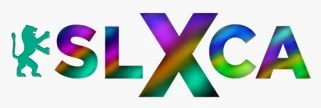
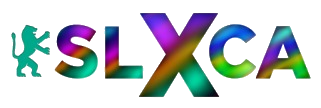
Refine SLxCA branding and contextual host controls

diff --git a/public/host.css b/public/host.css
@@ -20,7 +20,7 @@
 .landing{min-height:100vh;background:var(--stage)}.landing-main{max-width:1320px;padding:64px 56px 60px;margin:auto;display:grid;grid-template-columns:1.05fr .95fr;gap:7vw;align-items:center;min-height:calc(100vh - 74px)}.intro h1{font-family:var(--font-display);font-size:clamp(64px,7vw,112px);font-weight:900;line-height:.94;letter-spacing:-.065em;margin:28px 0}.intro h1 span{display:block;color:var(--board-gold)}.intro p{font-size:20px;line-height:1.5;max-width:520px;color:#bfc4d2}.intro .event{font-size:13px;letter-spacing:.17em;text-transform:uppercase;color:var(--board-gold);font-weight:800}
 .entry{border-top:5px solid var(--accent);background:#151b30;padding:36px 40px 38px;box-shadow:0 18px 60px #0003}.entry h2{font-size:31px;margin:0 0 7px}.entry p{color:#bfc4d2;margin:0 0 30px;line-height:1.45}.entry label{display:block;font-size:12px;text-transform:uppercase;letter-spacing:.12em;font-weight:800;margin:18px 0 8px;color:#bfc4d2}.entry input{height:56px;padding:0 18px;width:100%;border:2px solid #6e7791;background:#fff;color:var(--ink);border-radius:4px;font-size:19px}.entry input::placeholder{color:#717a8b}.primary{background:var(--board-gold);color:#141622;border:0;border-radius:4px;padding:17px 22px;font-weight:900;font-size:18px;min-height:56px}.entry .primary{width:100%;margin-top:28px}.create-line{border-top:1px solid #525a73;margin-top:32px;padding-top:23px;display:flex;align-items:center;justify-content:space-between;gap:12px}.create-line span{font-size:15px;color:#c8cbda}.outline{border:1px solid #c2cad9;background:transparent;color:#fff;border-radius:4px;padding:13px 18px;font-weight:800;white-space:nowrap}.outline:hover{background:#25314e}
 /* Projector: board is dominant; controls are a restrained separate strip. */
-.host{height:100vh;min-height:700px;overflow:hidden;display:flex;flex-direction:column;background:#0c1020}.host-header{height:64px;flex:none;display:flex;align-items:center;justify-content:space-between;padding:0 26px;border-bottom:1px solid #39425e}.host-header .title{font-family:var(--font-display);font-weight:900;letter-spacing:.04em;font-size:26px}.host-header .title b{color:var(--board-gold)}.room-code{font-size:14px;font-weight:800;letter-spacing:.08em}.host-content{display:flex;flex:1;min-height:0;gap:22px;padding:20px 22px}.board-area{display:flex;flex-direction:column;min-width:0;flex:1}.board{display:grid;grid-template-columns:repeat(4,minmax(0,1fr));grid-template-rows:repeat(6,minmax(0,1fr));gap:6px;background:var(--board-edge);border:7px solid var(--board-edge);box-shadow:0 0 0 1px #57658e,0 22px 70px #0008;flex:1;min-height:0}.tile{display:flex;align-items:center;justify-content:center;text-align:center;background:var(--board);text-shadow:2px 3px 2px #0008;border:1px solid #2656d2;padding:9px}.tile.category{font-size:clamp(12px,1.55vw,23px);font-weight:900;line-height:1.12;text-transform:uppercase;color:var(--white)}.tile.value{font-family:var(--font-display);font-weight:900;font-size:var(--text-money);color:var(--board-gold)}.tile.value:hover{background:var(--board-lit)}.tile.empty{color:#8b9bcd;background:#09216c}.host-foot{height:64px;flex:none;display:flex;gap:12px;align-items:center;justify-content:space-between;color:#a9b2cb;font-size:14px}.host-foot strong{color:#fff}.host-foot button{background:#222c45;border:1px solid #737f9d;color:#fff;border-radius:4px;padding:9px 15px}.host-side{width:262px;display:flex;flex-direction:column;gap:16px}.side-section{border-top:3px solid #6a769c;padding-top:12px}.side-section h2{font-size:12px;text-transform:uppercase;letter-spacing:.15em;color:#b8c0d6;margin:0 0 12px}.score{display:flex;align-items:center;justify-content:space-between;gap:8px;padding:11px 0;border-bottom:1px solid #303954;font-size:15px}.score strong{font-family:var(--font-display);font-size:21px;color:var(--board-gold)}.score.lead span:before{content:'●';font-size:9px;color:var(--accent);padding-right:8px}.status{background:#1b2440;border-left:4px solid var(--accent);padding:14px 16px}.status .hint{font-size:12px;color:#bfc6d9;line-height:1.4}.status strong{display:block;font-size:20px;margin:5px 0}.status .clock{font-size:32px;color:var(--board-gold);font-family:var(--font-display);font-weight:900}.host-side .side-section:last-child{margin-top:auto}.host-side button{border:1px solid #76829e;color:#fff;background:#222b44;padding:10px 12px;border-radius:4px;font-size:13px;font-weight:700;text-align:left;width:100%}
+.host{height:100vh;min-height:700px;overflow:hidden;display:flex;flex-direction:column;background:#0c1020}.host-header{height:64px;flex:none;display:flex;align-items:center;justify-content:space-between;padding:0 26px;border-bottom:1px solid #39425e}.host-header .title{font-family:var(--font-display);font-weight:900;letter-spacing:.04em;font-size:26px}.host-header .title b{color:var(--board-gold)}.room-code{font-size:14px;font-weight:800;letter-spacing:.08em}.host-content{display:flex;flex:1;min-height:0;gap:22px;padding:20px 22px}.board-area{display:flex;flex-direction:column;min-width:0;flex:1}.board{display:grid;grid-template-columns:repeat(4,minmax(0,1fr));grid-template-rows:repeat(6,minmax(0,1fr));gap:6px;background:var(--board-edge);border:7px solid var(--board-edge);box-shadow:0 0 0 1px #57658e,0 22px 70px #0008;flex:1;min-height:0}.tile{display:flex;align-items:center;justify-content:center;text-align:center;background:var(--board);text-shadow:2px 3px 2px #0008;border:1px solid #2656d2;padding:9px}.tile.category{font-size:clamp(12px,1.55vw,23px);font-weight:900;line-height:1.12;text-transform:uppercase;color:var(--white)}.tile.value{font-family:var(--font-display);font-weight:900;font-size:var(--text-money);color:var(--board-gold)}.tile.value:hover{background:var(--board-lit)}.tile.empty{color:#8b9bcd;background:#09216c}.host-foot{height:64px;flex:none;display:flex;gap:12px;align-items:center;justify-content:space-between;color:#a9b2cb;font-size:14px}.host-foot strong{color:#fff}.host-foot button{background:#222c45;border:1px solid #737f9d;color:#fff;border-radius:4px;padding:9px 15px}.host-side{width:262px;display:flex;flex-direction:column;gap:16px}.side-section{border-top:3px solid #6a769c;padding-top:12px}.side-section h2{font-size:12px;text-transform:uppercase;letter-spacing:.15em;color:#b8c0d6;margin:0 0 12px}.score{display:flex;align-items:center;justify-content:space-between;gap:8px;padding:11px 0;border-bottom:1px solid #303954;font-size:15px}.score strong{font-family:var(--font-display);font-size:21px;color:var(--board-gold)}.status{background:#1b2440;border-left:4px solid var(--accent);padding:14px 16px}.status .hint{font-size:12px;color:#bfc6d9;line-height:1.4}.status strong{display:block;font-size:20px;margin:5px 0}.status .clock{font-size:32px;color:var(--board-gold);font-family:var(--font-display);font-weight:900}.host-side .side-section:last-child{margin-top:auto}.host-side button{border:1px solid #76829e;color:#fff;background:#222b44;padding:10px 12px;border-radius:4px;font-size:13px;font-weight:700;text-align:left;width:100%}
 /* Question overlay overlays the board, not the host controls. */
 .board-wrap{position:relative;flex:1;min-height:0;display:flex}.board-wrap .board{width:100%}.reveal{position:absolute;inset:0;border:7px solid var(--board-edge);background:var(--board);display:flex;flex-direction:column;justify-content:center;align-items:center;text-align:center;padding:4% 7%}.reveal .kicker{font-size:clamp(15px,1.4vw,22px);font-weight:800;letter-spacing:.09em;text-transform:uppercase;color:var(--board-gold)}.reveal .clue{font-family:var(--font-display);font-weight:900;line-height:1.17;text-transform:uppercase;font-size:clamp(32px,3.4vw,57px);max-width:960px;text-shadow:3px 4px 2px #0008;margin:45px 0}.reveal .buzzed{background:#f8f7f2;color:#151b30;font-weight:900;padding:15px 30px;font-size:19px}.reveal .buzzed b{color:#9e2439}.reveal .clock{position:absolute;bottom:24px;right:28px;font-family:var(--font-display);font-size:42px;color:var(--board-gold)}
 /* Player: single task in reach of a thumb. */
@@ -67,7 +67,7 @@
 .pill.down .live-dot{background:var(--danger)}
 .pill.down{color:#c9a3a0}
 .score>span:first-child{flex:1;min-width:0;overflow:hidden;text-overflow:ellipsis;white-space:nowrap}
-.score.lead .adj:before{content:none;padding:0}
+
 
 /* SLxCA game-shell refresh. Jeopardy board tiles and clue geometry remain intact. */
 :root{--accent:#f5427b;--board-gold:#ffffff;--board:#112fa4;--board-lit:#2146c6;--board-edge:#140f48;--focus:0 0 0 3px #fff,0 0 0 6px #f5427b}
@@ -78,19 +78,19 @@
 .join-label{font-size:13px;font-weight:800;letter-spacing:.01em}.join-code{font-size:34px;font-weight:1000;line-height:1;letter-spacing:.11em;color:#4214a3;font-variant-numeric:tabular-nums}
 .host-header .pill{border:0;background:#fff2;color:#fff;font-weight:900;border-radius:12px;padding:13px 15px;white-space:nowrap}.host-header .live-dot{width:10px;height:10px}
 .host-content{gap:16px;padding:22px}.board{border-radius:9px;overflow:hidden;border-width:7px;box-shadow:0 8px 0 #160b4e,0 18px 36px #1b0a5299}.tile.category{background:#233db2}.tile.value:hover{background:#3159d2}.reveal{border-radius:9px}
-.host-side{width:276px;gap:12px}.side-section{border:0;background:#fff;border-radius:13px;padding:15px;color:#24133e;box-shadow:0 5px 0 #190a54}.side-section h2{color:#5f2bb2;font-size:12px;font-weight:1000;margin-bottom:8px}.score{font-size:15px;border-color:#e2dbed}.score strong{color:#5321b5}.score.lead span:before{color:#ed3374}.score.disconnected span{color:#88808e}.score .adj button{background:#ece4fb;border:0;color:#482191;border-radius:7px;font-size:12px;min-width:38px;padding:5px 6px}.score .adj button:hover{background:#d8c8f7}
+.host-side{width:276px;gap:12px}.side-section{border:0;background:#fff;border-radius:13px;padding:15px;color:#24133e;box-shadow:0 5px 0 #190a54}.side-section h2{color:#5f2bb2;font-size:12px;font-weight:1000;margin-bottom:8px}.score{font-size:15px;border-color:#e2dbed}.score strong{color:#5321b5}.score.disconnected span{color:#88808e}.score .adj button{background:#ece4fb;border:0;color:#482191;border-radius:7px;font-size:12px;min-width:38px;padding:5px 6px}.score .adj button:hover{background:#d8c8f7}
 .host-side .status{background:#eee5fe;color:#2b1551;border-left:5px solid #ef397a;border-radius:8px}.status .hint,.queue{color:#5b506d}.status strong{font-size:22px}.status .clock{color:#5721ad}.queue b{color:#24133e}.host-side .side-section:last-child{margin-top:auto}.host-side button{background:#5720bc;border:0;color:#fff;border-radius:9px;padding:12px;font-size:14px;font-weight:900;text-align:center;margin-top:6px;box-shadow:0 3px 0 #2c0c76}.host-side button:not(:disabled):hover{background:#7438d1}.host-side button:disabled{background:#ddd6e8;color:#625b6d;opacity:1;box-shadow:none}.host-foot{color:#eee3ff}.host-foot strong{color:#fff}.notice:empty::before{color:#eee3ff}
 @media(max-width:900px){.host-header{height:92px;padding:10px}.host-header .title{font-size:19px}.room-code{min-width:220px;padding:6px 12px}.join-code{font-size:26px}.join-label{font-size:11px}.host-side{width:210px}.host-content{gap:10px;padding:12px}.side-section{padding:10px}.score{flex-wrap:wrap}.score .adj{order:3;width:100%}}
 
 /* Keep names legible alongside four adjustment controls, even with long team names. */
-.host-side{width:310px;overflow-y:auto;scrollbar-width:thin}.score{display:grid;grid-template-columns:minmax(0,1fr) auto;gap:7px;padding:10px 0}.score>span:first-child{white-space:normal;overflow-wrap:anywhere;overflow:visible;font-weight:800;min-width:0}.score .adj{display:grid;grid-template-columns:repeat(4,minmax(0,1fr));gap:4px;grid-column:1/-1;grid-row:2}.score .adj button{padding:4px 2px;min-width:0;box-shadow:none}.score strong{grid-column:2;grid-row:1;text-align:right}.score.lead .adj:before{content:none}
+.host-side{width:310px;overflow-y:auto;scrollbar-width:thin}.score{display:grid;grid-template-columns:minmax(0,1fr) auto;gap:7px;padding:10px 0}.score>span:first-child{white-space:normal;overflow-wrap:anywhere;overflow:visible;font-weight:800;min-width:0}.score .adj{display:grid;grid-template-columns:repeat(4,minmax(0,1fr));gap:4px;grid-column:1/-1;grid-row:2}.score .adj button{padding:4px 2px;min-width:0;box-shadow:none}.score strong{grid-column:2;grid-row:1;text-align:right}
 @media(max-width:900px){.host-side{width:245px}.score .adj{width:auto}}
 
 .complete-board{background:linear-gradient(135deg,#251178,#5414bf);overflow-y:auto;align-items:flex-start!important}.final-standings{width:min(680px,92%);margin:auto;padding:20px;color:#fff}.final-standings h1{text-align:center;font:900 clamp(32px,4vw,58px) Arial,sans-serif;margin:0 0 24px}.final-team{display:flex;justify-content:space-between;align-items:center;gap:15px;padding:14px 22px;margin:8px 0;border-radius:12px;background:#fff;color:#31116c;font-size:clamp(17px,2vw,25px);font-weight:900;text-shadow:none}.final-team:first-of-type{background:#ffffff}.final-team strong{white-space:nowrap}.score .readmit{grid-column:1/-1;grid-row:3;background:#f4b128;color:#1c1430;box-shadow:none;padding:5px 8px;font-size:12px;text-align:center}
 
 /* Recolor shell only; board remains Jeopardy blue with gold values. */
 :root{--accent:#2f62a5;--board-gold:#ffffff;--focus:0 0 0 3px #fff,0 0 0 6px #2f62a5}
-.host{background:linear-gradient(145deg,#356ba9,#194b87)}.host-header{background:#153e74;box-shadow:0 5px 0 #0d305d}.host-header .title b{color:#ffffff}.room-code{color:#193b67;box-shadow:0 5px 0 #0c305d}.join-code{color:#1b528e}.board{box-shadow:0 8px 0 #0b2e5f,0 18px 36px #0a2c5d99}.side-section{color:#19365f;box-shadow:0 5px 0 #0e335f}.side-section h2{color:#255b9c}.score strong{color:#225da2}.score.lead span:before{color:#2f62a5}.score .adj button{background:#e8f1fa;color:#24558d}.score .adj button:hover{background:#cfe1f4}.host-side .status{background:#e9f2fb;color:#193b67;border-left-color:#2f62a5}.status .clock{color:#225da2}.queue b{color:#19365f}.host-side button{background:#2f62a5;box-shadow:0 3px 0 #17416e}.host-side button:not(:disabled):hover{background:#3b74ba}.host-side button:disabled{background:#d7e0ec;color:#53667d}.host-foot{color:#e3eefb}.notice:empty::before{color:#e3eefb}
+.host{background:linear-gradient(145deg,#356ba9,#194b87)}.host-header{background:#153e74;box-shadow:0 5px 0 #0d305d}.host-header .title b{color:#ffffff}.room-code{color:#193b67;box-shadow:0 5px 0 #0c305d}.join-code{color:#1b528e}.board{box-shadow:0 8px 0 #0b2e5f,0 18px 36px #0a2c5d99}.side-section{color:#19365f;box-shadow:0 5px 0 #0e335f}.side-section h2{color:#255b9c}.score strong{color:#225da2}.score .adj button{background:#e8f1fa;color:#24558d}.score .adj button:hover{background:#cfe1f4}.host-side .status{background:#e9f2fb;color:#193b67;border-left-color:#2f62a5}.status .clock{color:#225da2}.queue b{color:#19365f}.host-side button{background:#2f62a5;box-shadow:0 3px 0 #17416e}.host-side button:not(:disabled):hover{background:#3b74ba}.host-side button:disabled{background:#d7e0ec;color:#53667d}.host-foot{color:#e3eefb}.notice:empty::before{color:#e3eefb}
 .complete-board{background:linear-gradient(135deg,#184d8a,#326fb6)}.final-team{color:#18477c}.final-team:first-of-type{background:#ffffff}.score .readmit{background:#ffffff;color:#19365f}
 
 /* Narrow host screens: board stays first; controls stack beneath it. */
@@ -126,3 +126,79 @@
 .host.slxca-theme .host-brand .host-wordmark,.host.slxca-theme .host-brand>span{display:block}
 .host.slxca-theme .host-partners{display:flex}
 @media(max-width:720px){.host-brand .sighton-logo{width:40px;height:40px}.host-brand strong{font-size:18px}}
+
+.score .leader-medal{display:inline-block;font-size:16px;line-height:1;margin-right:8px;vertical-align:-1px;text-decoration:none}
+/* Event identity in header; participating schools in the board's bottom-left footer. */
+.host .network-mark,.host .host-schools{display:none}
+.host.slxca-theme .network-mark{display:block;width:130px;height:47px;object-fit:contain;content:url('/brand/schulich-network-light.webp');margin-right:auto}
+.host-foot-left{display:flex;align-items:center;gap:18px;min-width:0}
+.host.slxca-theme .host-schools{display:flex;align-items:center;gap:16px;min-width:0}
+.host-schools img{display:block;width:62px;height:34px;object-fit:contain;object-position:center}
+.host-schools img:first-child{width:38px}
+.host-schools img:nth-child(2){width:52px}
+.host.slxca-theme .host-wordmark{background:none;border-radius:0;padding:0}
+.score .leader-medal{display:inline-block;width:19px;height:22px;object-fit:contain;margin-right:8px;vertical-align:-5px}
+@media(max-width:720px){.host.slxca-theme .network-mark{width:85px;height:35px;margin-right:0}.host-foot-left{flex-wrap:wrap;gap:5px}.host.slxca-theme .host-schools{width:100%;gap:12px}.host-schools img{height:26px;width:50px}.host-schools img:first-child{width:26px}.host-schools img:nth-child(2){width:43px}.host.slxca-theme .host-foot{min-height:66px}}
+.host-foot{overflow:visible}
+.host.slxca-theme .host-foot-left{gap:10px}
+.host.slxca-theme .host-schools{padding-left:2px}
+@media(max-width:720px){.host.slxca-theme .host-foot{padding-top:12px;min-height:86px}.host.slxca-theme .host-foot-left{display:flex;flex-direction:column;align-items:flex-start;gap:5px}.host.slxca-theme .host-schools{height:28px}.host.slxca-theme .board-wrap{margin-bottom:4px}}
+
+/* A pale shared ribbon makes dark-blue school marks legible without logo chips. */
+.host.slxca-theme .host-schools{background:#dbeafd;border-radius:3px;padding:5px 12px;gap:17px}
+.host.slxca-theme .host-schools img{width:75px;height:32px}
+.host.slxca-theme .host-schools img:first-child{width:32px}
+.host.slxca-theme .host-schools img:nth-child(2){width:58px}
+.round-meta{display:flex;align-items:center;gap:10px;white-space:nowrap}
+.round-meta #clues-left:empty{display:none}
+@media(max-width:720px){.host.slxca-theme .host-schools{gap:14px;padding:5px 9px;height:34px}.host.slxca-theme .host-schools img{width:68px;height:25px}.host.slxca-theme .host-schools img:first-child{width:27px}.host.slxca-theme .host-schools img:nth-child(2){width:48px}.host.slxca-theme .host-foot{min-height:76px}.host.slxca-theme .host-foot-left{gap:6px}}
+
+/* One contextual action row beneath the slide, never a permanent sidebar of disabled buttons. */
+.slide-controls{display:flex;align-items:center;gap:10px;flex:none;min-height:64px;padding:10px 0 0}
+.slide-controls[hidden]{display:none!important}
+.slide-controls button{border:0;border-radius:7px;background:#dceafa;color:#153d70;font-size:15px;font-weight:900;min-height:46px;padding:10px 18px;cursor:pointer;box-shadow:0 3px 0 #153c70}
+.slide-controls button:hover{background:#eef5fd}
+.slide-controls #cmd-arm,.slide-controls #cmd-correct{background:#fff;color:#1e4e87}
+.slide-controls #cmd-wrong{background:#f5d5d9;color:#7b2432}
+.slide-controls #cmd-back{margin-left:auto}
+.slide-controls button:focus-visible{outline:3px solid #fff;outline-offset:2px}
+@media(max-width:700px){.slide-controls{gap:8px;min-height:59px;padding-top:9px}.slide-controls button{font-size:13px;min-height:43px;padding:8px 10px}.slide-controls #cmd-back{margin-left:auto}}
+
+/* Buttons are part of the clue slide, bottom edge; keep clue and answer clear. */
+.reveal .slide-controls{position:absolute;bottom:17px;left:20px;right:20px;z-index:2;min-height:0;padding:0;display:flex;flex-wrap:wrap;justify-content:flex-start}
+.reveal .slide-controls button{box-shadow:0 3px 0 #07175a;min-height:42px}
+.reveal .slide-controls #cmd-back{margin-left:auto}
+.reveal .answer{bottom:82px;max-width:75%}
+.reveal .clock{bottom:82px;right:28px}
+@media(max-width:700px){.reveal .slide-controls{bottom:10px;left:10px;right:10px;gap:6px}.reveal .slide-controls button{min-height:39px;font-size:12px;padding:6px 9px}.reveal .answer{bottom:64px;left:10px;max-width:78%;font-size:11px}.reveal .clock{bottom:65px;right:11px}.reveal .clue{margin-bottom:64px}}
+
+/* Adaptive clue controls should not obscure the prompt or answer text. */
+.reveal .slide-controls{background:linear-gradient(0deg,#071a67d9,#071a6700);bottom:0;left:0;right:0;padding:20px 20px 17px;border-radius:0 0 7px 7px}
+.reveal .answer{bottom:90px}
+.reveal .clock{bottom:90px}
+@media(max-width:700px){.reveal .slide-controls{padding:15px 8px 10px}.reveal .answer{bottom:70px}.reveal .clock{bottom:70px}}
+
+/* Back is persistent in the upper left; the clue itself only holds stage actions. */
+.host-header .host-back{appearance:none;display:inline-flex;align-items:center;justify-content:center;flex:none;padding:9px 12px;min-height:38px;border:1px solid #8eaacc;border-radius:6px;color:#fff;background:#ffffff1a;font:800 13px Arial,Helvetica,sans-serif;cursor:pointer}
+.host-header .host-back:disabled{opacity:.4;cursor:not-allowed}
+.host-header .host-back:not(:disabled):hover{background:#ffffff36}
+.host-header .host-back:focus-visible{outline:3px solid #fff;outline-offset:2px}
+.reveal .buzzed{margin-bottom:36px}
+.reveal .clock{bottom:88px}
+@media(max-width:700px){.host-header .host-back{position:absolute;left:10px;top:12px;min-height:34px;padding:5px 8px;font-size:11px}.host-header{padding-top:52px}.reveal .buzzed{margin-bottom:56px;font-size:12px;padding:8px 12px}.reveal .clock{bottom:78px;right:13px;font-size:20px}.reveal .clue{margin-top:9px;margin-bottom:20px;font-size:clamp(19px,5.7vw,32px)}.reveal .slide-controls{padding:12px 8px 10px}}
+
+.reveal .slide-controls #cmd-resolved-back{background:#fff;color:#153d70}
+@media(max-width:700px){.reveal .buzzed:not([hidden]){max-width:80%;margin-bottom:68px}.reveal .clue{font-size:clamp(18px,5.2vw,31px);margin:5px 0 15px}.reveal .clock{bottom:83px}.reveal .answer{bottom:82px}}
+
+/* The status/footer takes a single compact row, leaving room for clues. */
+.host-foot{height:42px;min-height:42px;padding:4px 0;gap:8px}
+.host.slxca-theme .host-schools{padding:2px 8px;gap:10px}
+.host.slxca-theme .host-schools img{height:27px;width:62px}
+.host.slxca-theme .host-schools img:first-child{width:27px}
+.host.slxca-theme .host-schools img:nth-child(2){width:48px}
+.host-foot-left{gap:9px}
+.reveal .clue{width:100%;overflow-wrap:anywhere;min-height:0;flex-shrink:1}
+@media(max-width:700px){.host-foot,.host.slxca-theme .host-foot{min-height:0;height:auto;padding:5px 0;gap:3px}.host.slxca-theme .host-foot-left{gap:3px}.host.slxca-theme .host-schools{height:26px;padding:2px 7px}.host.slxca-theme .host-schools img{height:21px;width:54px}.host.slxca-theme .host-schools img:first-child{width:23px}.host.slxca-theme .host-schools img:nth-child(2){width:44px}.host-foot .notice{font-size:11px}}
+
+/* The persistent header Back is never displaced on narrow screens. */
+@media(max-width:700px){.host-header{position:relative}.host-header .host-back{z-index:3}.host-brand{margin-top:0}}

diff --git a/public/host.html b/public/host.html
@@ -1,12 +1,14 @@
 <!doctype html><html lang="en"><head><meta charset="utf-8"><meta name="viewport" content="width=device-width,initial-scale=1"><meta name="theme-color" content="#0c1020"><link rel="icon" type="image/svg+xml" href="/brand/sighton-logo.svg"><title>Sighton Jeopardy - Host</title><link rel="stylesheet" href="/host.css"></head><body class="host">
-<header class="host-header"><div class="host-brand"><img class="sighton-logo" src="/brand/sighton-logo.svg" alt="Sighton Media"><strong>Sighton Jeopardy</strong><img class="host-wordmark" src="/brand/slxca-wordmark.webp" alt="SLxCA"><span>Jeopardy</span></div><div class="host-partners" aria-label="Event network and universities"><img src="/brand/schulich-network.webp" alt="Schulich Leader Network"><img src="/brand/sfu.webp" alt="SFU"><img src="/brand/uvic.webp" alt="UVic"><img src="/brand/ubc.webp" alt="UBC"></div><div class="room-code" id="room-code"></div></header>
+<header class="host-header"><button class="host-back" id="cmd-back" type="button" disabled aria-label="Back to board">← Back</button><div class="host-brand"><img class="sighton-logo" src="/brand/sighton-logo.svg" alt="Sighton Media"><strong>Sighton Jeopardy</strong><img class="host-wordmark" src="/brand/slxca-wordmark.webp" alt="SLxCA"><span>Jeopardy</span></div><img class="network-mark" src="/brand/schulich-network.webp" alt="Schulich Leader Network"><div class="room-code" id="room-code"></div></header>
+
 <main class="host-content">
-<section class="board-area" aria-label="Jeopardy board"><div class="board-wrap"><div class="board" id="board"></div><div class="reveal" id="reveal" hidden><div class="kicker" id="reveal-kicker"></div><div class="clue" id="reveal-clue"></div><div class="buzzed" id="reveal-buzzed" hidden></div><div class="answer" id="reveal-answer" hidden><b>ANSWER</b><span id="reveal-answer-text"></span></div><div class="clock" id="reveal-clock" hidden></div></div></div>
-<footer class="host-foot"><div><strong>Round 1</strong> &nbsp; · &nbsp; <span id="clues-left"></span></div><div class="notice" id="notice"></div></footer></section>
+<section class="board-area" aria-label="Jeopardy board"><div class="board-wrap"><div class="board" id="board"></div><div class="reveal" id="reveal" hidden><div class="kicker" id="reveal-kicker"></div><div class="clue" id="reveal-clue"></div><div class="buzzed" id="reveal-buzzed" hidden></div><div class="answer" id="reveal-answer" hidden><b>ANSWER</b><span id="reveal-answer-text"></span></div><div class="clock" id="reveal-clock" hidden></div><div class="slide-controls" id="slide-controls" aria-label="Host controls" hidden><button id="cmd-arm" type="button" hidden>Arm buzzers</button><button id="cmd-correct" type="button" hidden>&#10003; Correct</button><button id="cmd-wrong" type="button" hidden>&#10005; Incorrect</button><button id="cmd-resolved-back" type="button" hidden>&larr; Back to board</button></div></div></div>
+
+<footer class="host-foot"><div class="host-foot-left"><div class="host-schools" aria-label="Participating schools"><img src="/brand/ubc.webp" alt="UBC"><img src="/brand/sfu.webp" alt="SFU"><img src="/brand/uvic.webp" alt="UVic"></div><span class="round-meta"><strong>Round 1</strong><span id="clues-left"></span></span></div><div class="notice" id="notice"></div></footer></section>
 <aside class="host-side" aria-label="Game information">
 <section class="side-section"><h2>Scores</h2><div id="scores"></div></section>
 <section class="side-section"><h2>Buzzers</h2><div class="status"><span class="hint" id="status-hint"></span><strong id="status-main">&mdash;</strong><span class="hint" id="status-sub"></span><div class="clock" id="status-clock" hidden></div></div><div class="queue" id="queue"></div></section>
-<section class="side-section"><h2>Host controls</h2><button id="cmd-arm" disabled>Arm buzzers</button><button id="cmd-correct" disabled>&#10003; Correct</button><button id="cmd-wrong" disabled>&#10005; Wrong</button><button id="cmd-back" disabled>&larr; Back to board</button></section>
+
 </aside></main>
 <div class="gate" id="gate" hidden><form class="card" id="gate-form"><h1>Host board</h1><p>Open this page from your private host link, or enter the room details.</p><label for="gate-code">Room code</label><input id="gate-code" maxlength="8" minlength="8" autocomplete="off" placeholder="ABCDEFGH"><label for="gate-token">Host token</label><input id="gate-token" autocomplete="off" placeholder="From your host link"><button class="primary" type="submit">Open board</button><div class="err" id="gate-err"></div></form></div>
 <script type="module" src="/host.ts"></script></body></html>

diff --git a/public/host.ts b/public/host.ts
@@ -190,6 +190,28 @@ function renderReveal() {
   } else buzzed.hidden = true;
 }
 
+function fitClue() {
+  const slide = el('reveal');
+  if (slide.hidden) return;
+  const clue = el('reveal-clue');
+  const slideHeight = slide.clientHeight;
+  const reserved = el('reveal-buzzed').hidden ? 140 : 200;
+  const answerReserved = el('reveal-answer').hidden ? 0 : 35;
+  clue.style.maxHeight = `${Math.max(80, slideHeight - reserved - answerReserved)}px`;
+  clue.style.overflow = 'hidden';
+  const maxSize = Math.min(57, Math.max(24, slide.clientWidth * (matchMedia('(max-width: 700px)').matches ? 0.063 : 0.05)));
+  let low = 12;
+  let high = maxSize;
+  for (let i = 0; i < 9; i++) {
+    const mid = (low + high) / 2;
+    clue.style.fontSize = `${mid}px`;
+    if (clue.scrollHeight > clue.clientHeight + 1 || clue.scrollWidth > clue.clientWidth + 1) high = mid;
+    else low = mid;
+  }
+  clue.style.fontSize = `${low}px`;
+  if (clue.scrollHeight > clue.clientHeight + 1) clue.style.overflowY = 'auto';
+}
+
 function renderScores() {
   const scores = el('scores');
   scores.replaceChildren();
@@ -207,7 +229,14 @@ function renderScores() {
     if (index === 0) row.classList.add('lead');
     if (!team.connected) row.classList.add('disconnected');
     const name = document.createElement('span');
-    name.textContent = team.name;
+    if (index === 0) {
+      const medal = document.createElement('img');
+      medal.className = 'leader-medal';
+      medal.src = '/brand/leader-medal.svg';
+      medal.alt = 'Leading team';
+      name.append(medal);
+    }
+    name.append(document.createTextNode(team.name));
     const adjust = document.createElement('span');
     adjust.className = 'adj';
     if (!team.connected) {
@@ -271,16 +300,27 @@ function renderBuzzers() {
 
 function renderControls() {
   const phase = state?.phase;
-  el<HTMLButtonElement>('cmd-arm').disabled = phase !== 'question-showing';
-  el<HTMLButtonElement>('cmd-correct').disabled = phase !== 'buzzed';
-  el<HTMLButtonElement>('cmd-wrong').disabled = phase !== 'buzzed';
-  el<HTMLButtonElement>('cmd-back').disabled = !phase || phase === 'lobby' || phase === 'board' || phase === 'complete';
+  const visible = phase === 'question-showing' || phase === 'buzz-open' || phase === 'buzzed' || phase === 'resolving';
+  el('slide-controls').hidden = !(phase === 'question-showing' || phase === 'buzzed' || phase === 'resolving');
+  const actions: Array<[string, boolean]> = [
+    ['cmd-arm', phase === 'question-showing'],
+    ['cmd-correct', phase === 'buzzed'],
+    ['cmd-wrong', phase === 'buzzed'],
+    ['cmd-resolved-back', phase === 'resolving'],
+  ];
+  el<HTMLButtonElement>('cmd-back').disabled = !visible;
+  for (const [id, show] of actions) {
+    const button = el<HTMLButtonElement>(id);
+    button.hidden = !show;
+    button.disabled = !show;
+  }
 }
 
 el<HTMLButtonElement>('cmd-arm').onclick = () => send({ type: 'arm_buzzers' });
 el<HTMLButtonElement>('cmd-correct').onclick = () => { const teamId = state?.buzzQueue[0]; if (teamId) send({ type: 'correct', teamId }); };
 el<HTMLButtonElement>('cmd-wrong').onclick = () => { const teamId = state?.buzzQueue[0]; if (teamId) send({ type: 'wrong', teamId }); };
 el<HTMLButtonElement>('cmd-back').onclick = () => send({ type: 'back_to_board' });
+el<HTMLButtonElement>('cmd-resolved-back').onclick = () => send({ type: 'back_to_board' });
 
 function tick() {
   const deadline = state?.buzzerDeadline;
@@ -299,8 +339,10 @@ function render() {
   renderScores();
   renderBuzzers();
   renderControls();
+  requestAnimationFrame(fitClue);
   tick();
 }
 
+new ResizeObserver(() => requestAnimationFrame(fitClue)).observe(el('reveal'));
 setInterval(tick, 200);
 render();

diff --git a/public/player.css b/public/player.css
@@ -70,3 +70,21 @@ button:focus-visible,a:focus-visible{outline:none;box-shadow:var(--focus)}
 /* Armed means actionable: red only while this team can buzz; locked/waiting stay distinct. */
 .player[data-state=ready] .buzz:not(:disabled){background:#d92b36;border-color:#fff;box-shadow:0 12px 0 #8d1724,0 20px 28px #092d60a6}
 .player[data-state=ready] .buzz:not(:disabled):active{box-shadow:0 5px 0 #8d1724,0 12px 19px #092d60a6}
+/* School marks belong to the room's bottom-left edge, not the buzzer header. */
+.player .player-schools,.player .player-network-logo{display:none}
+.player.slxca-theme .player-schools{display:flex;align-items:center;gap:11px;flex:none;align-self:flex-start;padding:3px 20px max(9px,env(safe-area-inset-bottom));color:#e6effb}
+.player-schools span{font-size:9px;letter-spacing:.1em;text-transform:uppercase;font-weight:900;white-space:nowrap}
+.player-schools>div{display:flex;align-items:center;gap:10px}
+.player-schools img{display:block;object-fit:contain;width:45px;height:27px}
+.player-schools img:first-child{width:24px}
+.player-schools img:nth-child(2){width:40px}
+.player.slxca-theme .player-marks{display:flex;align-items:center;gap:12px;margin-bottom:12px}
+.player.slxca-theme .player-event-logo{margin:0;background:none;padding:0}
+.player.slxca-theme .player-network-logo{display:block;width:140px;height:49px;object-fit:contain;background:none;padding:0}
+.player.slxca-theme .slxca-wordmark{background:none;padding:0}
+@media(max-width:390px){.player.slxca-theme .player-schools{gap:8px}.player-schools>div{gap:7px}}
+
+.player.slxca-theme .player-schools{background:#dbeafd;color:#184877;padding:8px 20px max(8px,env(safe-area-inset-bottom));width:100%}
+.player.slxca-theme .player-schools img{width:58px;height:28px}
+.player.slxca-theme .player-schools img:first-child{width:27px}
+.player.slxca-theme .player-schools img:nth-child(2){width:48px}

diff --git a/public/create.html b/public/create.html
@@ -27,7 +27,7 @@
 .status{margin:14px 0 0;font-size:14px;color:#547391;min-height:20px}
 @media(max-width:550px){.topbar{height:64px;padding:0 22px}.panel{padding:27px 23px}}
  .sighton-logo{display:block;width:45px;height:40px;object-fit:contain}.brand{gap:8px;letter-spacing:0;text-transform:none}.brand span{font-size:17px;font-weight:800;color:#fff}#theme-label{font-weight:800;color:#23548f}
-body.slxca-theme .topbar .brand .sighton-logo,body.slxca-theme .topbar .brand span{display:none}body.slxca-theme .topbar .brand:before{content:"";display:block;width:112px;height:37px;background:#f7f7f7 url("/brand/slxca-wordmark.webp") center/contain no-repeat;border-radius:5px}body.slxca-theme .topbar .brand:after{content:"Jeopardy";font-weight:800}
+body.slxca-theme .topbar .brand .sighton-logo,body.slxca-theme .topbar .brand span{display:none}body.slxca-theme .topbar .brand:before{content:"";display:block;width:112px;height:37px;background:transparent url("/brand/slxca-wordmark.webp") center/contain no-repeat;border-radius:5px}body.slxca-theme .topbar .brand:after{content:"Jeopardy";font-weight:800}
 </style><link rel="icon" type="image/svg+xml" href="/brand/sighton-logo.svg"></head><body>
 <header class="topbar"><div class="brand"><img class="sighton-logo" src="/brand/sighton-logo.svg" alt="Sighton Media"><span>Sighton Jeopardy</span></div><a href="/">Join a game</a></header>
 <main class="wrap"><section class="panel">

diff --git a/public/player.html b/public/player.html
@@ -12,8 +12,9 @@
     <div class="brand"><img class="sighton-logo" src="/brand/sighton-logo.svg" alt="Sighton Media"><span>Sighton Jeopardy</span><img class="slxca-wordmark" src="/brand/slxca-wordmark.webp" alt="SLxCA"><small>Jeopardy</small></div>
     <span class="pill" id="room-code" aria-label="Room code"></span>
   </header>
+
   <main class="player-main">
-    <div class="identity"><img class="player-event-logo" src="/brand/slxca-26.webp" alt="SLxCA 2026">
+    <div class="identity"><div class="player-marks"><img class="player-event-logo" src="/brand/slxca-26.webp" alt="SLxCA 2026"><img class="player-network-logo" src="/brand/schulich-network.webp" alt="Schulich Leader Network"></div>
       <div class="team">You're playing as</div>
       <div class="team"><strong id="team-name">Your team</strong></div>
       <div class="player-score" id="score">0 points</div>
@@ -27,6 +28,7 @@
     <p class="connection-note" id="connection-note" role="alert" hidden></p>
     <a class="back-link" href="/">Leave game</a>
   </main>
+  <div class="player-schools" aria-label="Participating schools"><span>Participating schools</span><div><img src="/brand/ubc.webp" alt="UBC"><img src="/brand/sfu.webp" alt="SFU"><img src="/brand/uvic.webp" alt="UVic"></div></div>
   <script type="module" src="/player.ts"></script>
 </body>
 </html>

diff --git a/public/style.css b/public/style.css
@@ -35,3 +35,4 @@
 .landing .sighton-credit{font-size:15px;color:#e1ecf8}
 .landing .sighton-credit a{color:#fff;text-underline-offset:3px}
 @media(max-width:550px){.landing .brand .sighton-logo{width:32px;height:34px}.landing .brand span{font-size:15px}}
+.landing .brand .slxca-wordmark,.intro .event-logo,.event-partners img{background:none;border-radius:0;padding:0}
